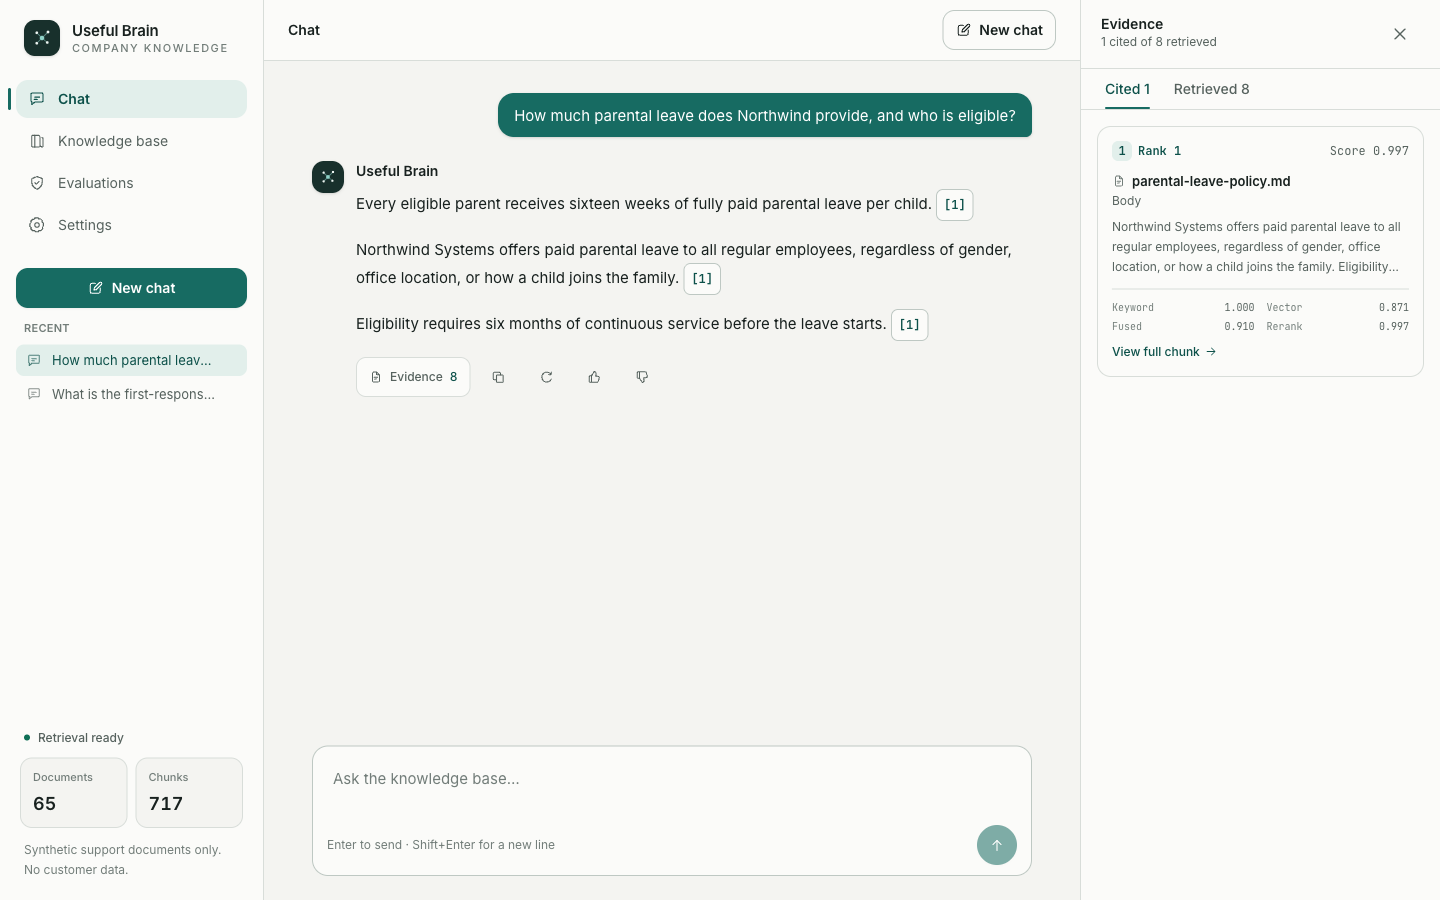
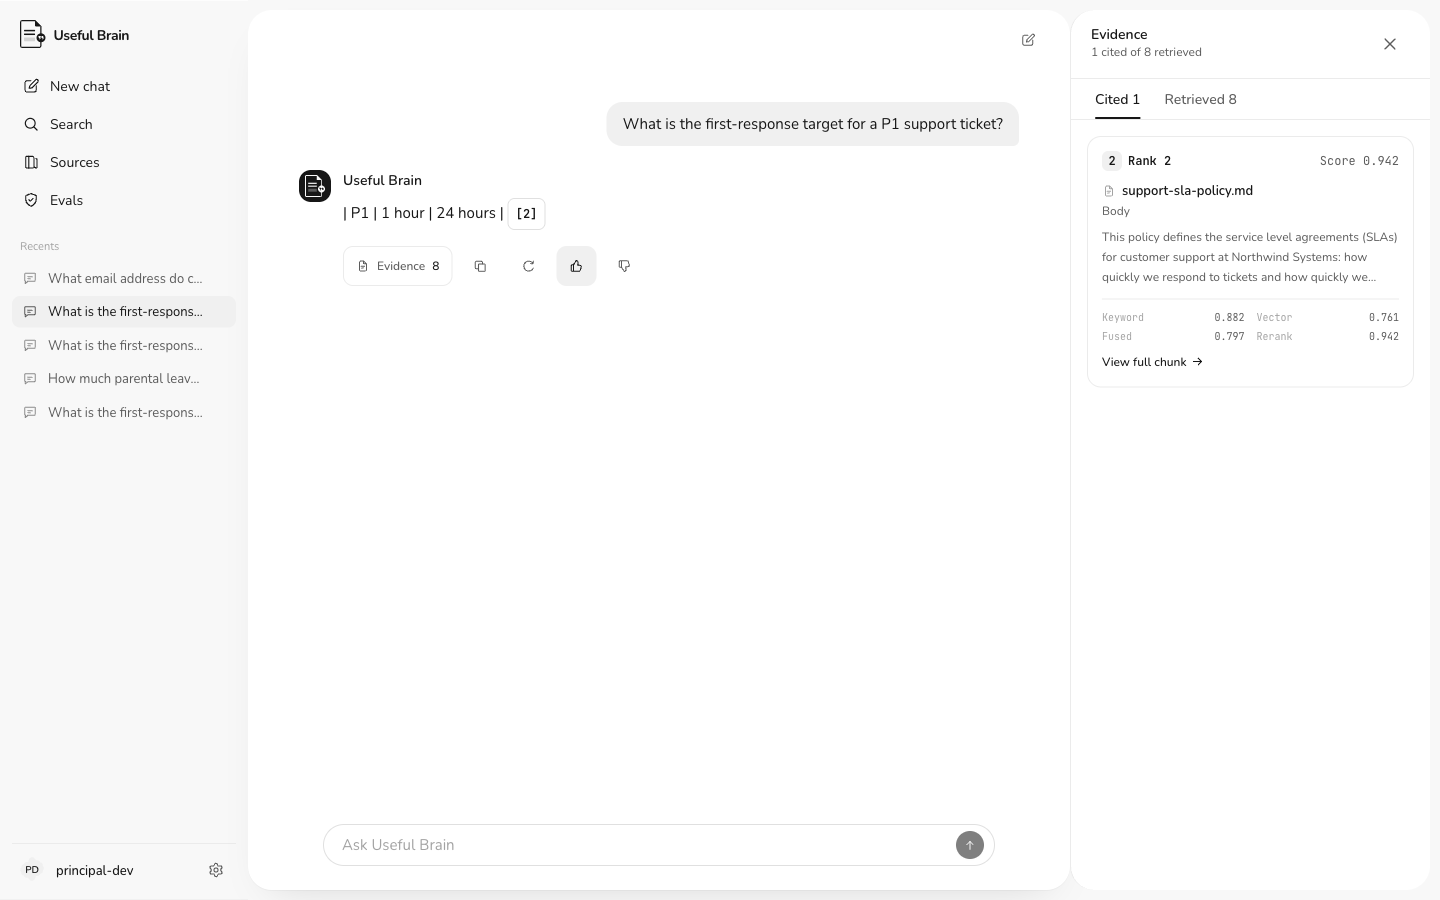
docs: use the public landing screenshots in the README
Chat, Sources and Evals now match the shots on brain.usefulbuild.com.

diff --git a/README.md b/README.md
@@ -4,7 +4,7 @@ Useful Brain is a knowledge agent that answers questions about a company corpus 
 
 This is a single-operator portfolio product: no billing, no public signup, no hosted demo. It runs locally on `127.0.0.1`.
 
-![Chat with cited answer and the evidence inspector open](docs/images/ub-chat-evidence.png)
+![Useful Brain chat with a cited answer and the evidence inspector open.](docs/images/ub-chat-evidence.png)
 
 ## The eval story: 72% to 95% without touching the scorer
 
@@ -23,7 +23,7 @@ Every gain came from the answer layer. Retrieval metrics and every scoring rule 
 
 Frozen result snapshots back both reports in [`evals/results/`](evals/results/).
 
-![Evaluations page with per-case results and evidence](docs/images/ub-evaluations.png)
+![Useful Brain Evals dashboard for the locked Northwind campaign.](docs/images/ub-evaluations.png)
 
 ## What it enforces
 
@@ -50,7 +50,7 @@ Hybrid retrieval fuses D1 FTS5 keyword search with Vectorize dense search (both 
 
 Models (all Cloudflare-hosted, selected by measured bake-off): `@cf/zai-org/glm-5.3-flash` for chat, `@cf/qwen/qwen3-embedding-0.6b` for embeddings, `@cf/baai/bge-reranker-base` for reranking.
 
-![Knowledge base with corpus generation status and document inventory](docs/images/ub-knowledge.png)
+![Useful Brain Sources inventory with the operator corpus and document list.](docs/images/ub-knowledge.png)
 
 ## Run it locally
 
